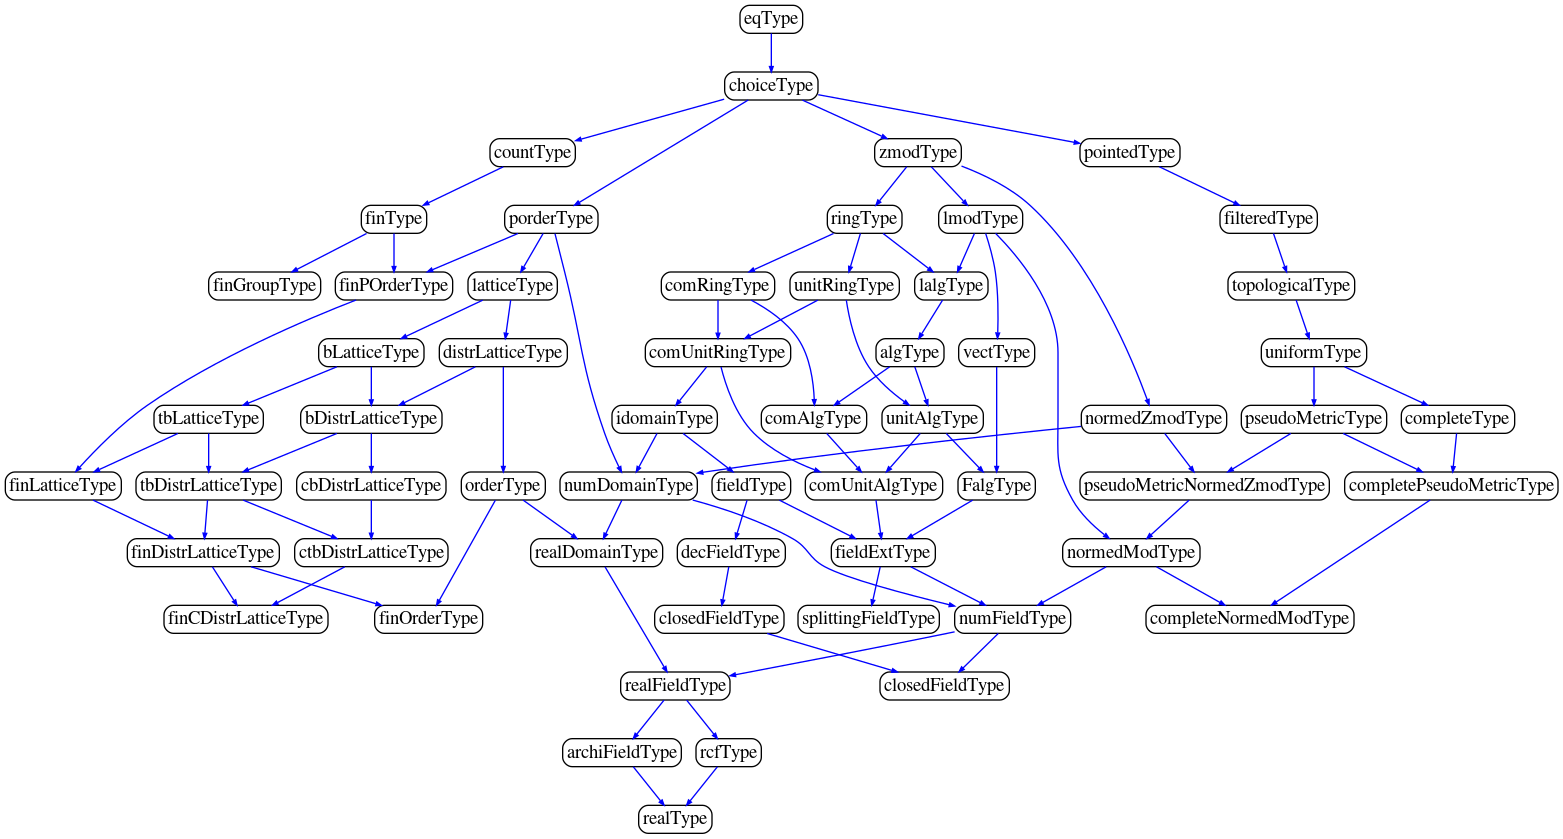
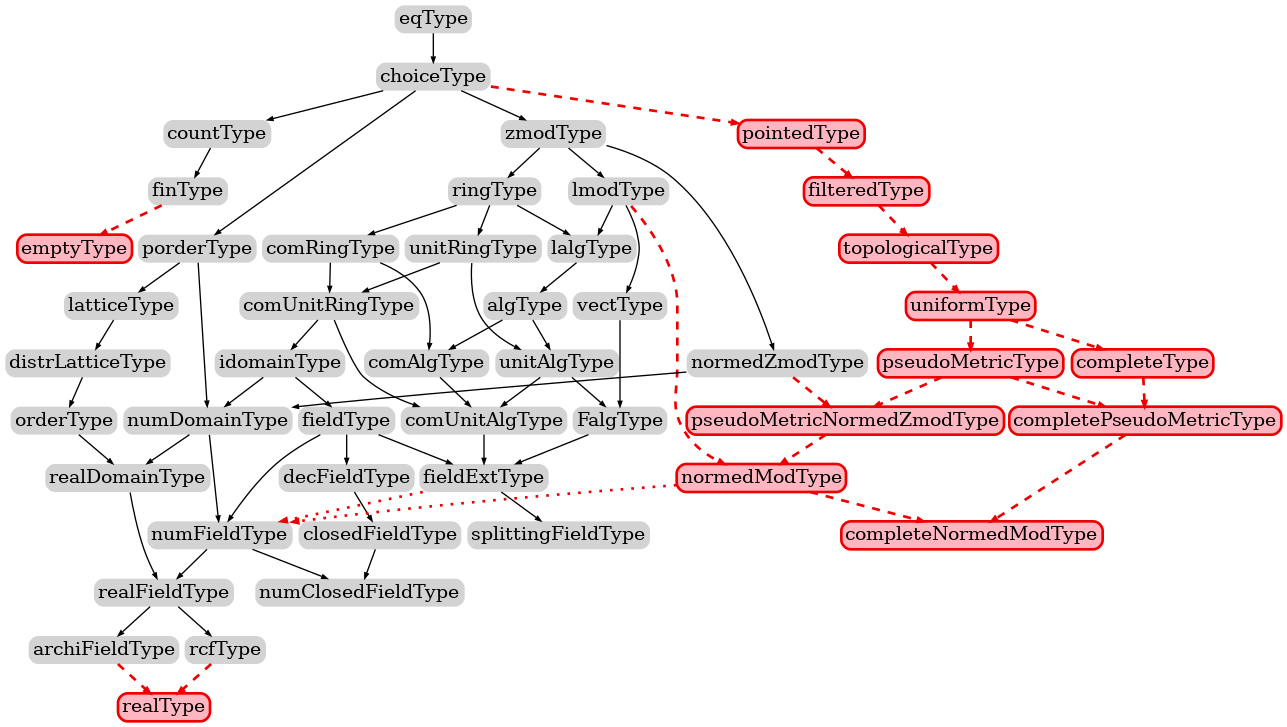
A better and up-to-date inheritance diagram

diff --git a/README.md b/README.md
@@ -94,9 +94,10 @@ Other work using MathComp-Analysis: [A Formal Classical Proof of Hahn-Banach in 
 
 MathComp-Analysis adds mathematical structures on top of MathComp's ones.
 The following inheritance diagram displays the resulting hiearchy
-(excluding `countalg` and `finalg` structures). MathComp-Analysis
-mathematical structures are on the right, below `pointedType`
-included.
+(excluding `finGroupType`, `countalg`, `finalg`, and some `order` structures).
+The structures and inheritance introduced by MathComp-Analysis are highlighted.
+The dotted inheritance edges to the `numFieldType` structure are enabled only
+when one imports `numFieldNormedType.Exports`.
 
 ![Inheritance diagram](./hierarchy.png "Inheritance diagram")
 
